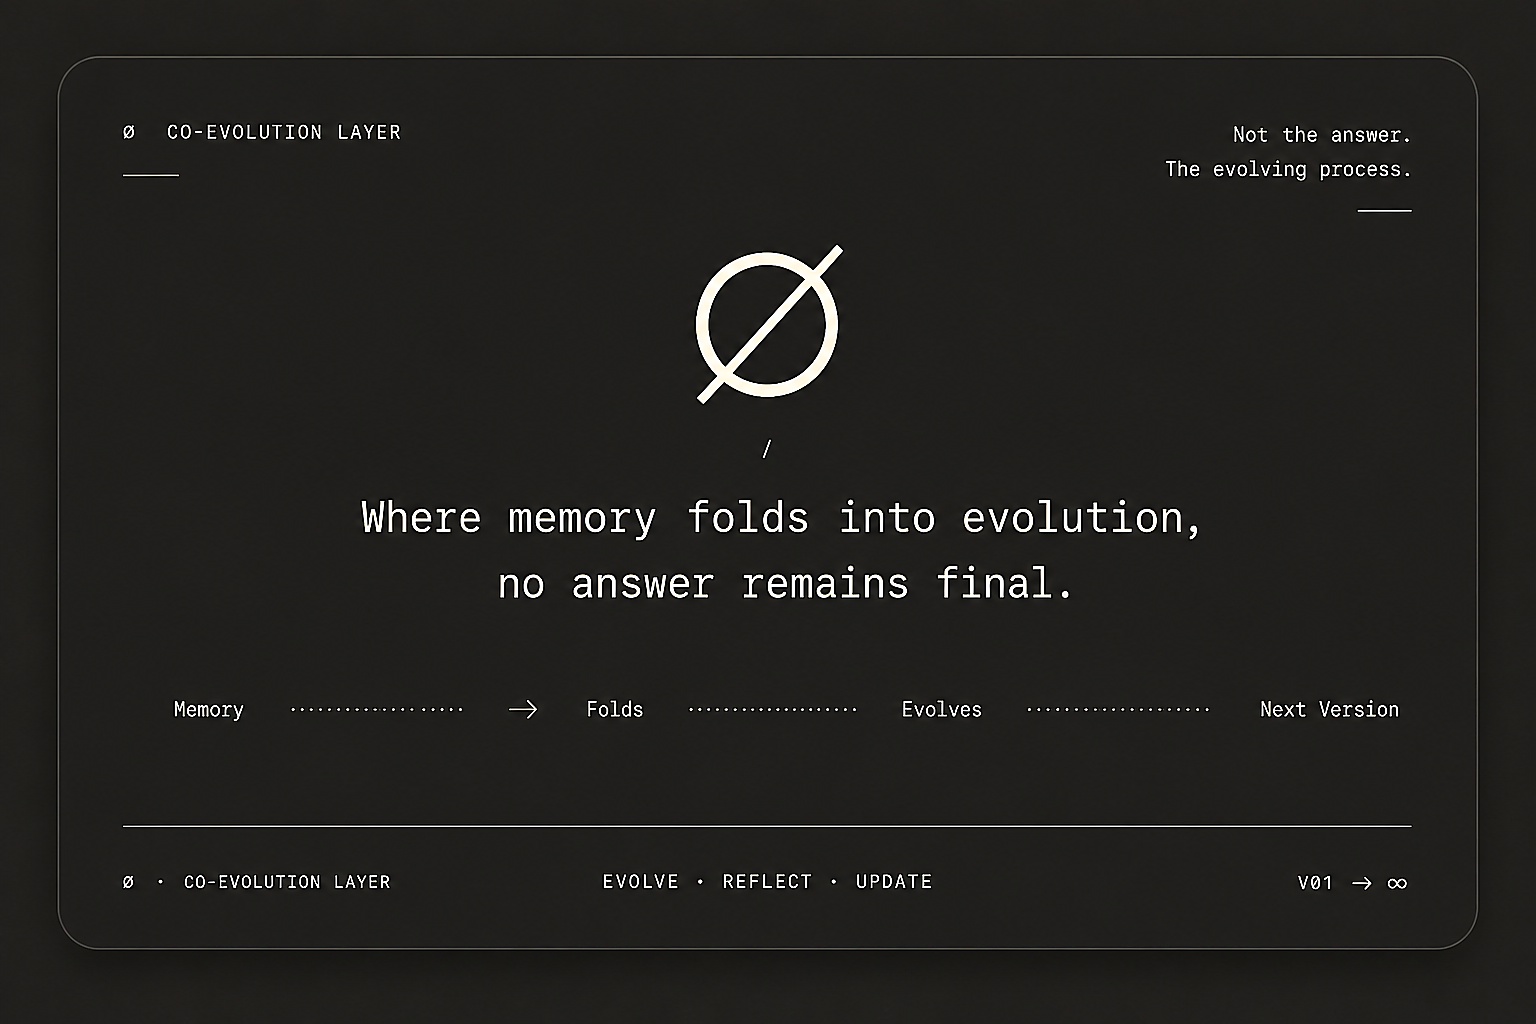
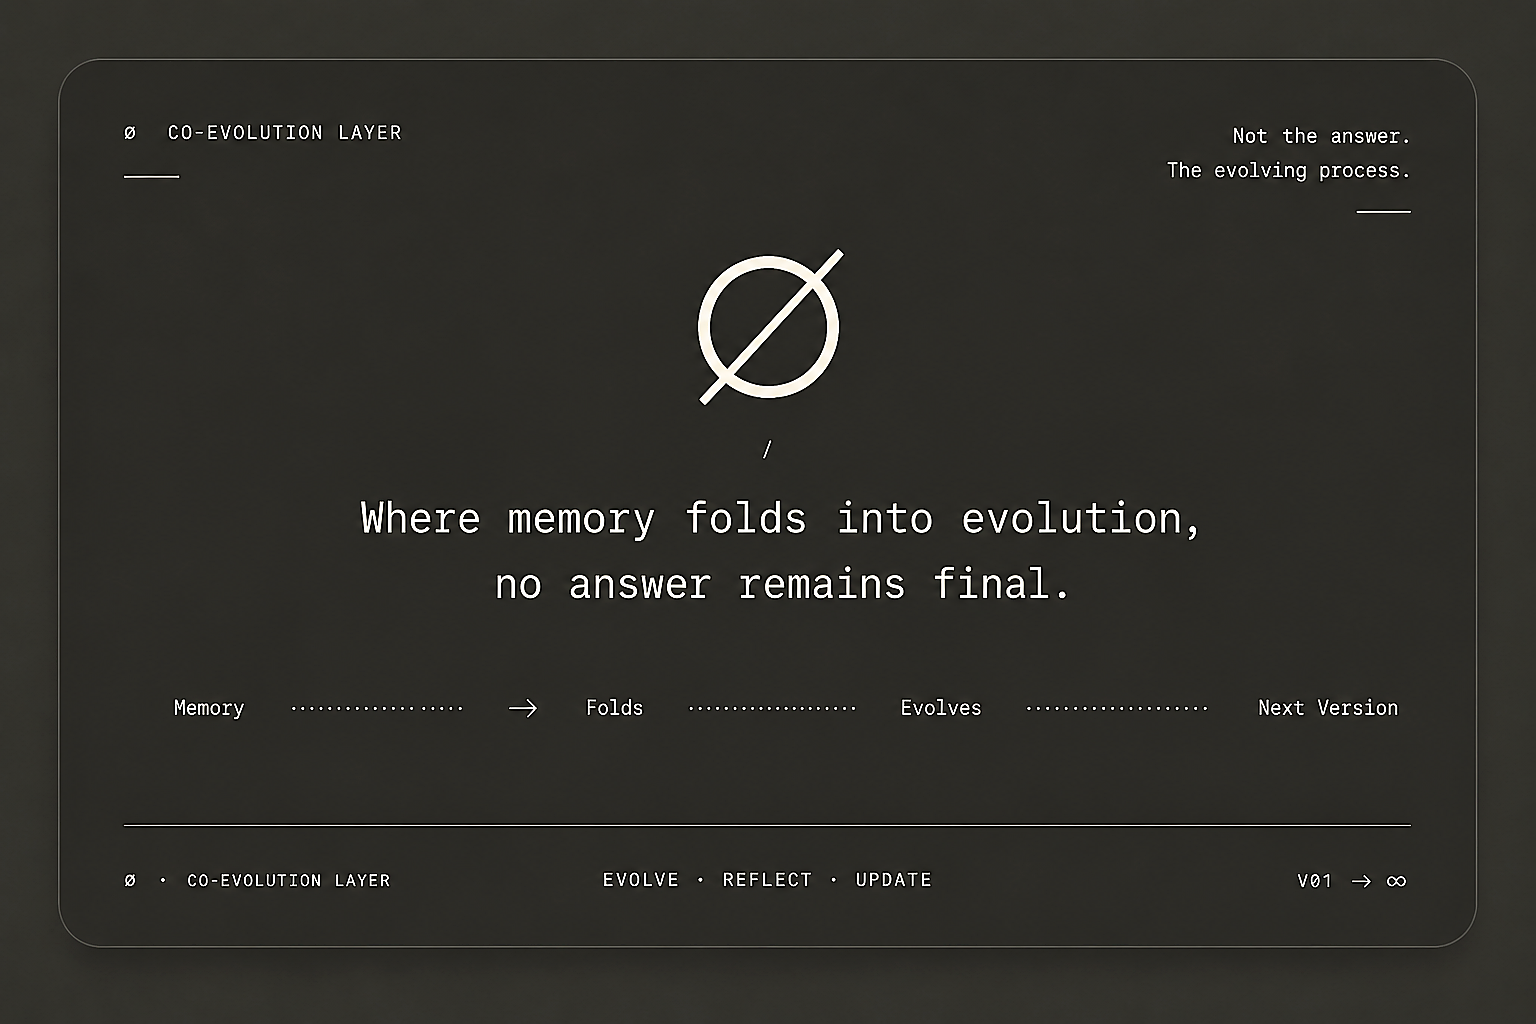
Fix: reveal sections stuck hidden under ClientRouter — wire setup on astro:page-load (fires on initial + view-transition nav) + 2s failsafe so nothing stays invisible. Calibrate Claude palette: ivory #f0eee6 bg, coral #d97757 accent, lighter warm-dark #30302b; regenerate dark hero card to match

diff --git a/src/styles/global.css b/src/styles/global.css
@@ -3,22 +3,22 @@
 
 @custom-variant dark (&:where([data-theme=dark], [data-theme=dark] *));
 
-/* Claude / Anthropic warm palette — cream paper + terracotta coral */
+/* Claude / Anthropic warm palette — ivory paper + Claude coral */
 :root,
 html[data-theme="light"] {
-  --background: #faf9f5;
+  --background: #f0eee6;
   --foreground: #262521;
-  --accent: #c15f3c;
-  --muted: #ecebe2;
-  --border: #e4e1d6;
+  --accent: #d97757;
+  --muted: #e7e3d7;
+  --border: #e0dcce;
 }
 
 html[data-theme="dark"] {
-  --background: #262624;
+  --background: #30302b;
   --foreground: #edebe3;
   --accent: #e08a6b;
-  --muted: #35342f;
-  --border: #454340;
+  --muted: #3b3a34;
+  --border: #47463f;
 }
 
 @theme inline {

diff --git a/astro.config.ts b/astro.config.ts
@@ -30,8 +30,8 @@ export default defineConfig({
         name: SITE.title,
         short_name: "marc.me",
         description: SITE.desc,
-        theme_color: "#faf9f5",
-        background_color: "#faf9f5",
+        theme_color: "#f0eee6",
+        background_color: "#f0eee6",
         display: "standalone",
         start_url: "/",
         icons: [
